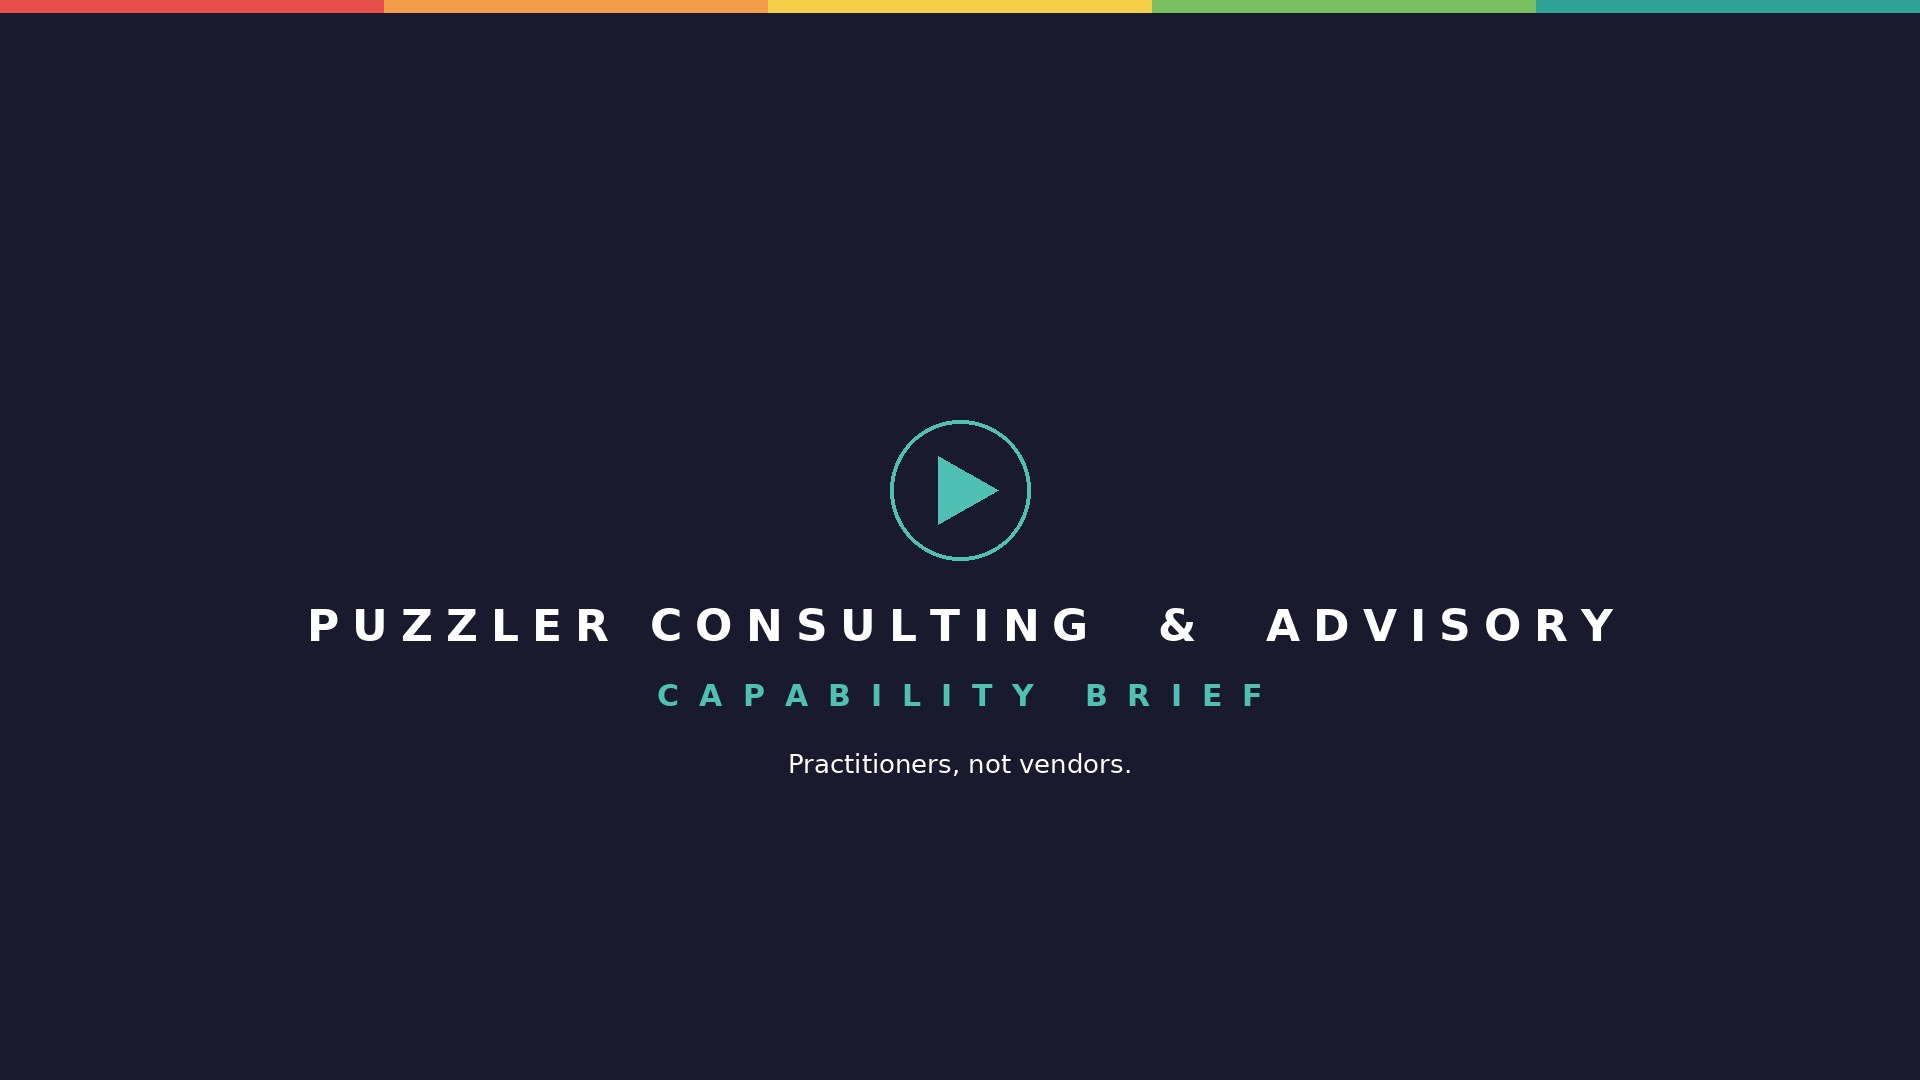
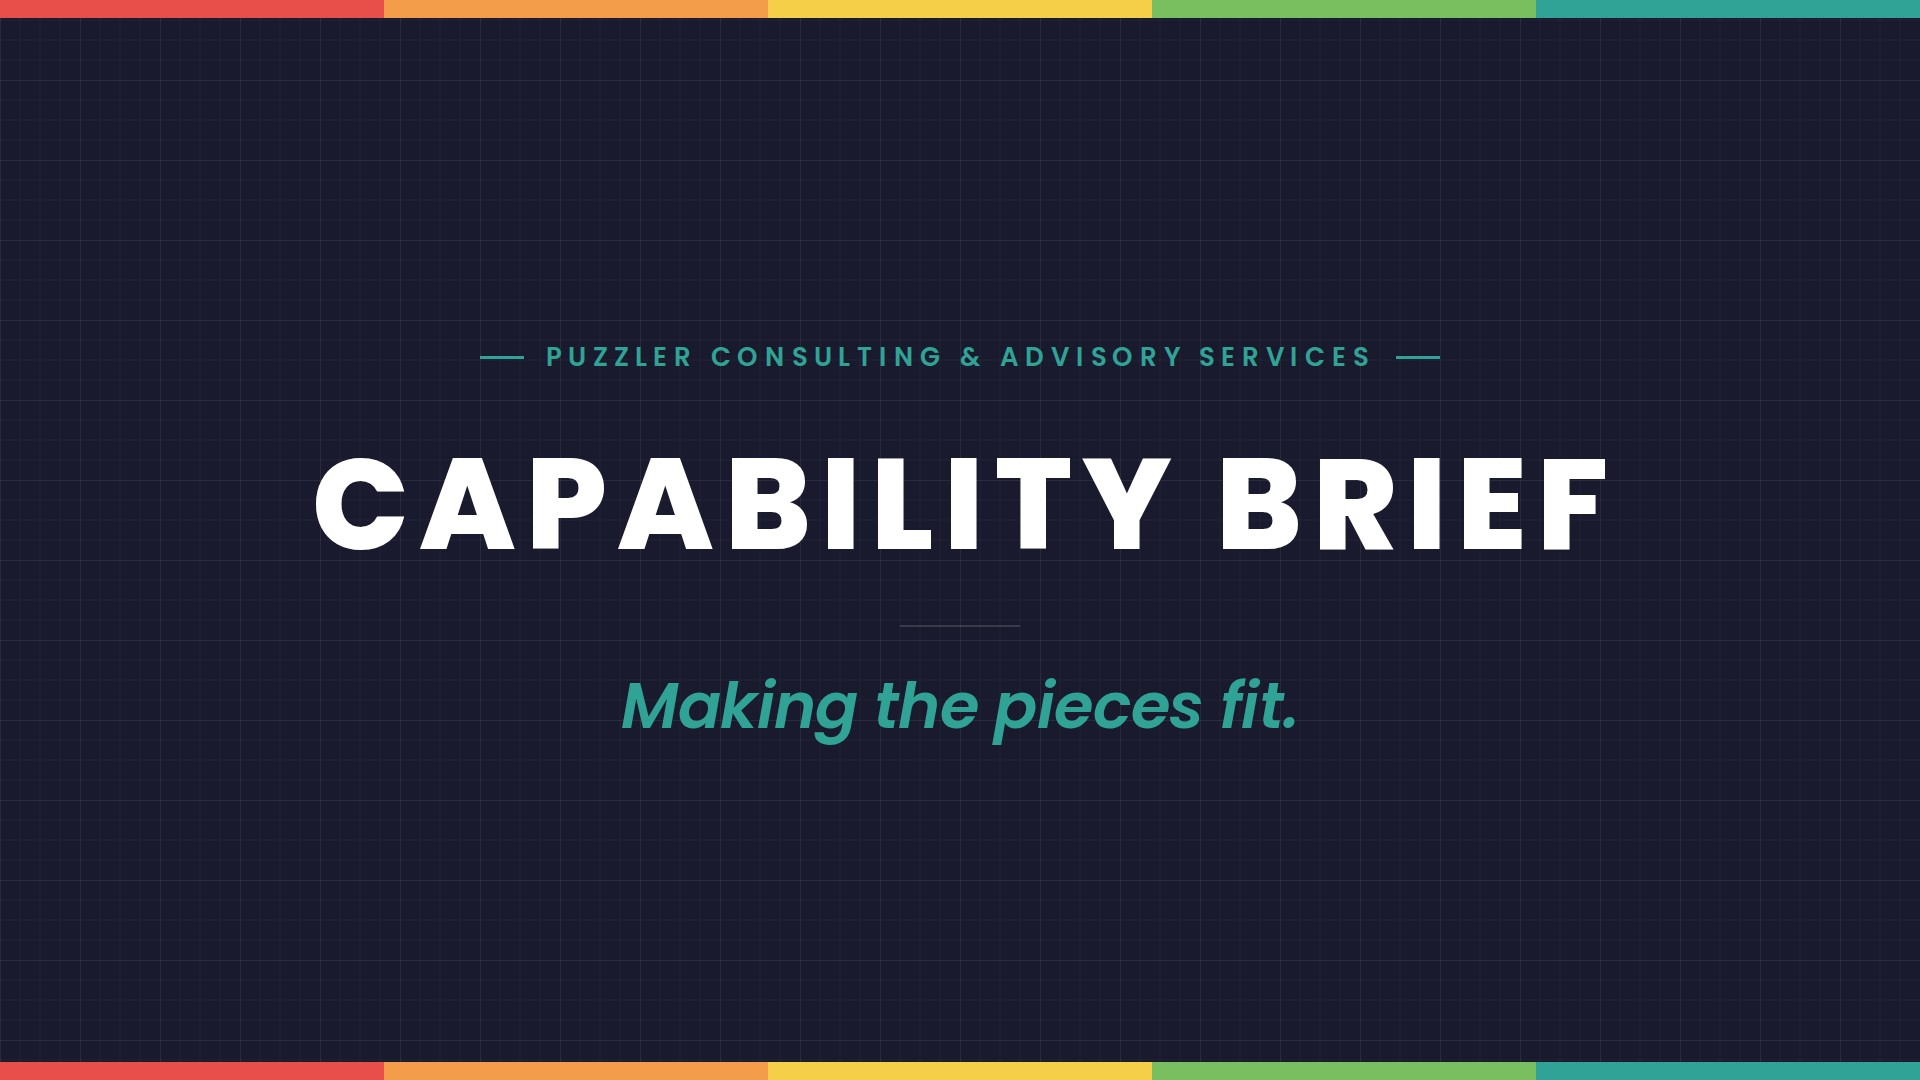
Regenerate both video posters with the new positioning line
- making-the-pieces-fit-poster.jpg and capability-brief-poster.jpg re-rendered
  at 1920×1080 from website-assets/posters/*.html on the Navy blueprint surface
  (Poppins only, approved palette, signature bar, full legal descriptor)
- tools/build-social-preview.mjs now renders all three brand cards from a manifest
  and fails if any font, image, or background asset does not load
- Poster sources excluded from deployment; IMPLEMENTATION_STATUS.md updated

Claude-Session: https://claude.ai/code/session_01NZj4BmqCaf1cTcCdrTWHX6

diff --git a/website-assets/posters/_poster.css b/website-assets/posters/_poster.css
@@ -1,0 +1,29 @@
+/* Shared styles for the 1920×1080 video posters. Rendered by tools/build-social-preview.mjs. Not served publicly.
+   Navy blueprint surface (BP-03 grid) matches the homepage hero. The four-piece mark is omitted on Navy
+   (Brand Standards §8.1: full-colour mark on white / pale gray only; mono-white variant not yet supplied). */
+@font-face { font-family: 'Poppins'; font-style: normal; font-weight: 500; src: url('../../fonts/poppins-500.woff2') format('woff2'); }
+@font-face { font-family: 'Poppins'; font-style: normal; font-weight: 600; src: url('../../fonts/poppins-600.woff2') format('woff2'); }
+@font-face { font-family: 'Poppins'; font-style: normal; font-weight: 800; src: url('../../fonts/poppins-800.woff2') format('woff2'); }
+@font-face { font-family: 'Poppins'; font-style: italic; font-weight: 600; src: url('../../fonts/poppins-600-italic.woff2') format('woff2'); }
+:root {
+  --navy: #1A1A2E; --coral: #E94F4A; --orange: #F39C4A; --yellow: #F5CF48; --green: #7ABF5F; --teal: #30A396;
+  --white: #FFFFFF; --on-dark-soft: rgba(255, 255, 255, 0.80); --on-dark-mute: rgba(255, 255, 255, 0.62);
+}
+* { margin: 0; padding: 0; box-sizing: border-box; }
+html, body { width: 1920px; height: 1080px; overflow: hidden; background: var(--navy); }
+body { font-family: 'Poppins', sans-serif; color: var(--white); -webkit-font-smoothing: antialiased; }
+.card {
+  position: relative; width: 1920px; height: 1080px; display: flex; flex-direction: column;
+  background: url('../blueprint/hero/blueprint-grid.svg') 0 0 / 80px 80px repeat, var(--navy);
+}
+.signature-bar { display: flex; height: 18px; width: 100%; flex: none; }
+.signature-bar > span { flex: 1 1 0; }
+.s1 { background: var(--coral); } .s2 { background: var(--orange); } .s3 { background: var(--yellow); } .s4 { background: var(--green); } .s5 { background: var(--teal); }
+.body { flex: 1 1 auto; display: flex; flex-direction: column; align-items: center; justify-content: center; text-align: center; padding: 0 160px; }
+.eyebrow { display: inline-flex; align-items: center; gap: 22px; font-size: 26px; font-weight: 600; letter-spacing: 0.26em; text-transform: uppercase; color: var(--teal); }
+.eyebrow::before, .eyebrow::after { content: ""; width: 44px; height: 3px; background: var(--teal); }
+.name { font-size: 176px; font-weight: 800; letter-spacing: 0.12em; line-height: 1; margin-left: 0.12em; }
+.title { font-size: 128px; font-weight: 800; letter-spacing: 0.08em; line-height: 1; margin-left: 0.08em; text-transform: uppercase; }
+.desc { font-size: 40px; font-weight: 600; letter-spacing: 0.30em; text-transform: uppercase; color: var(--on-dark-soft); margin-left: 0.30em; }
+.line { font-size: 64px; font-weight: 600; font-style: italic; letter-spacing: -0.01em; color: var(--teal); line-height: 1.1; }
+.rule { height: 2px; width: 120px; background: rgba(255, 255, 255, 0.14); }

diff --git a/website-assets/posters/capability-brief-poster.html b/website-assets/posters/capability-brief-poster.html
@@ -1,0 +1,25 @@
+<!doctype html>
+<html lang="en">
+<head>
+<meta charset="utf-8">
+<title>Source: capability-brief-poster.jpg (1920×1080)</title>
+<link rel="stylesheet" href="_poster.css">
+<style>
+  .eyebrow { margin-bottom: 64px; }
+  .title { margin-bottom: 56px; }
+  .rule { margin-bottom: 44px; }
+</style>
+</head>
+<body>
+<div class="card">
+  <div class="signature-bar"><span class="s1"></span><span class="s2"></span><span class="s3"></span><span class="s4"></span><span class="s5"></span></div>
+  <div class="body">
+    <div class="eyebrow">Puzzler Consulting &amp; Advisory Services</div>
+    <div class="title">Capability Brief</div>
+    <div class="rule"></div>
+    <div class="line">Making the pieces fit.</div>
+  </div>
+  <div class="signature-bar"><span class="s1"></span><span class="s2"></span><span class="s3"></span><span class="s4"></span><span class="s5"></span></div>
+</div>
+</body>
+</html>

diff --git a/website-assets/posters/making-the-pieces-fit-poster.html b/website-assets/posters/making-the-pieces-fit-poster.html
@@ -1,0 +1,25 @@
+<!doctype html>
+<html lang="en">
+<head>
+<meta charset="utf-8">
+<title>Source: making-the-pieces-fit-poster.jpg (1920×1080)</title>
+<link rel="stylesheet" href="_poster.css">
+<style>
+  .name { margin-bottom: 30px; }
+  .desc { margin-bottom: 56px; }
+  .rule { margin-bottom: 44px; }
+</style>
+</head>
+<body>
+<div class="card">
+  <div class="signature-bar"><span class="s1"></span><span class="s2"></span><span class="s3"></span><span class="s4"></span><span class="s5"></span></div>
+  <div class="body">
+    <div class="name">PUZZLER</div>
+    <div class="desc">Consulting &amp; Advisory Services</div>
+    <div class="rule"></div>
+    <div class="line">Making the pieces fit.</div>
+  </div>
+  <div class="signature-bar"><span class="s1"></span><span class="s2"></span><span class="s3"></span><span class="s4"></span><span class="s5"></span></div>
+</div>
+</body>
+</html>

diff --git a/IMPLEMENTATION_STATUS.md b/IMPLEMENTATION_STATUS.md
@@ -39,7 +39,7 @@ No framework was introduced.
 | BR-06 | `puzzler_social_preview_640.png` (640×320, historical) | Superseded 2026-09-09 by WEB-03 (`social-preview.png`, 1200×630, rendered from `website-assets/social-preview/social-preview.html` by `tools/build-social-preview.mjs`). Not kept in the repo. |
 | — | `puzzler_logo_teal_1024.png` | Single teal piece. Source of the current favicon / touch icons. Not the four-piece mark. |
 | — | `fonts/poppins-*.woff2` | 400–800 regular were present. 300 regular and 300–600 italic latin subsets added during preflight so the homepage no longer depends on Google Fonts. |
-| — | `making-the-pieces-fit.mp4` + poster | Existing video page (not homepage media). Untouched. |
+| — | `making-the-pieces-fit.mp4` + poster | Existing video page (not homepage media). Video untouched; poster regenerated 2026-09-09 (see §5). |
 | — | `capability-brief.html` | Existing HeyGen embed page. Untouched. |
 
 ### 1.3 Missing source files (referenced by the asset map, not in repo or upload)
@@ -190,8 +190,9 @@ Removed: `files short video.zip` (transfer package in the web root).
 - Pieces in Motion destinations confirmed: Falcon `https://youtu.be/MdvX8wE0pCw`, LOCK `https://youtu.be/fJ6mfYTrP5s`, QUIET MIND `https://youtu.be/LAh9TsDHnTc`. Cards embed the videos as click-to-play facades. The card thumbnail is YouTube's own frame; drop approved artwork into `assets/pieces-in-motion/<project>/source/` and run `tools/build-posters.py` to replace it with a branded poster.
 - The site now loads YouTube thumbnails and, on click, the `youtube-nocookie.com` player. Confirm whether the Privacy Notice should mention embedded YouTube content (legal copy is not edited here).
 
-- Positioning line changed by the founder on 2026-09-09: "Practitioners, not vendors." is replaced by "Making the pieces fit" everywhere in page copy and metadata (homepage title, hero, social tags, video and brief pages, card page and vCard note). Where the old line sat next to the brand line, the duplicate was collapsed. `social-preview.png` (WEB-03) was regenerated with the new line on 2026-09-09. Two raster files still carry the old line baked in and need regenerating: `making-the-pieces-fit-poster.jpg` and `capability-brief-poster.jpg`.
+- Positioning line changed by the founder on 2026-09-09: "Practitioners, not vendors." is replaced by "Making the pieces fit" everywhere in page copy and metadata (homepage title, hero, social tags, video and brief pages, card page and vCard note). Where the old line sat next to the brand line, the duplicate was collapsed. All three raster files that carried the old line were regenerated on 2026-09-09: `social-preview.png` (WEB-03), `making-the-pieces-fit-poster.jpg`, and `capability-brief-poster.jpg`.
 - WEB-03 produced 2026-09-09: `social-preview.png` is now 1200×630, rendered by `tools/build-social-preview.mjs` from `website-assets/social-preview/social-preview.html` (white surface so the exact BR-01 mark file may be used per Brand Standards §8.1; Poppins 500/600/800 + 600 italic self-hosted; signature bar top and bottom; copy: "Consulting & Advisory Services", "PUZZLER", "Making the pieces fit.", "For nonprofits, small businesses, and organizations doing meaningful work."). `og:image:width`/`height` updated to 1200×630 on `index.html`, `privacy.html`, `terms.html`, `puzzler_card.html`. Re-render with `cd tools && npm run build:social`.
+- Video posters regenerated 2026-09-09 (same pipeline, 1920×1080 JPEG, sources in `website-assets/posters/`, excluded from deployment): Navy blueprint surface (BP-03 grid), signature bar top and bottom, Poppins only. The previous posters used a single teal piece (not the approved mark), a non-Poppins face on the brief poster, and the short name "Puzzler Consulting & Advisory"; both now use the full legal descriptor. No mark appears on the Navy posters because Brand Standards §8.1 restricts the full-colour mark to white / pale gray and the mono-white variant has not been supplied; add it to the poster sources when it arrives. Copy: video poster "PUZZLER / Consulting & Advisory Services / Making the pieces fit."; brief poster "Puzzler Consulting & Advisory Services / Capability Brief / Making the pieces fit."
 
 **Decisions needed**
 - **Earlier link.** `https://youtu.be/v64HNRW10ZM` was supplied in-session before the LOCK link was confirmed and is no longer used anywhere. Say which project it belongs to if it should appear on the site.
